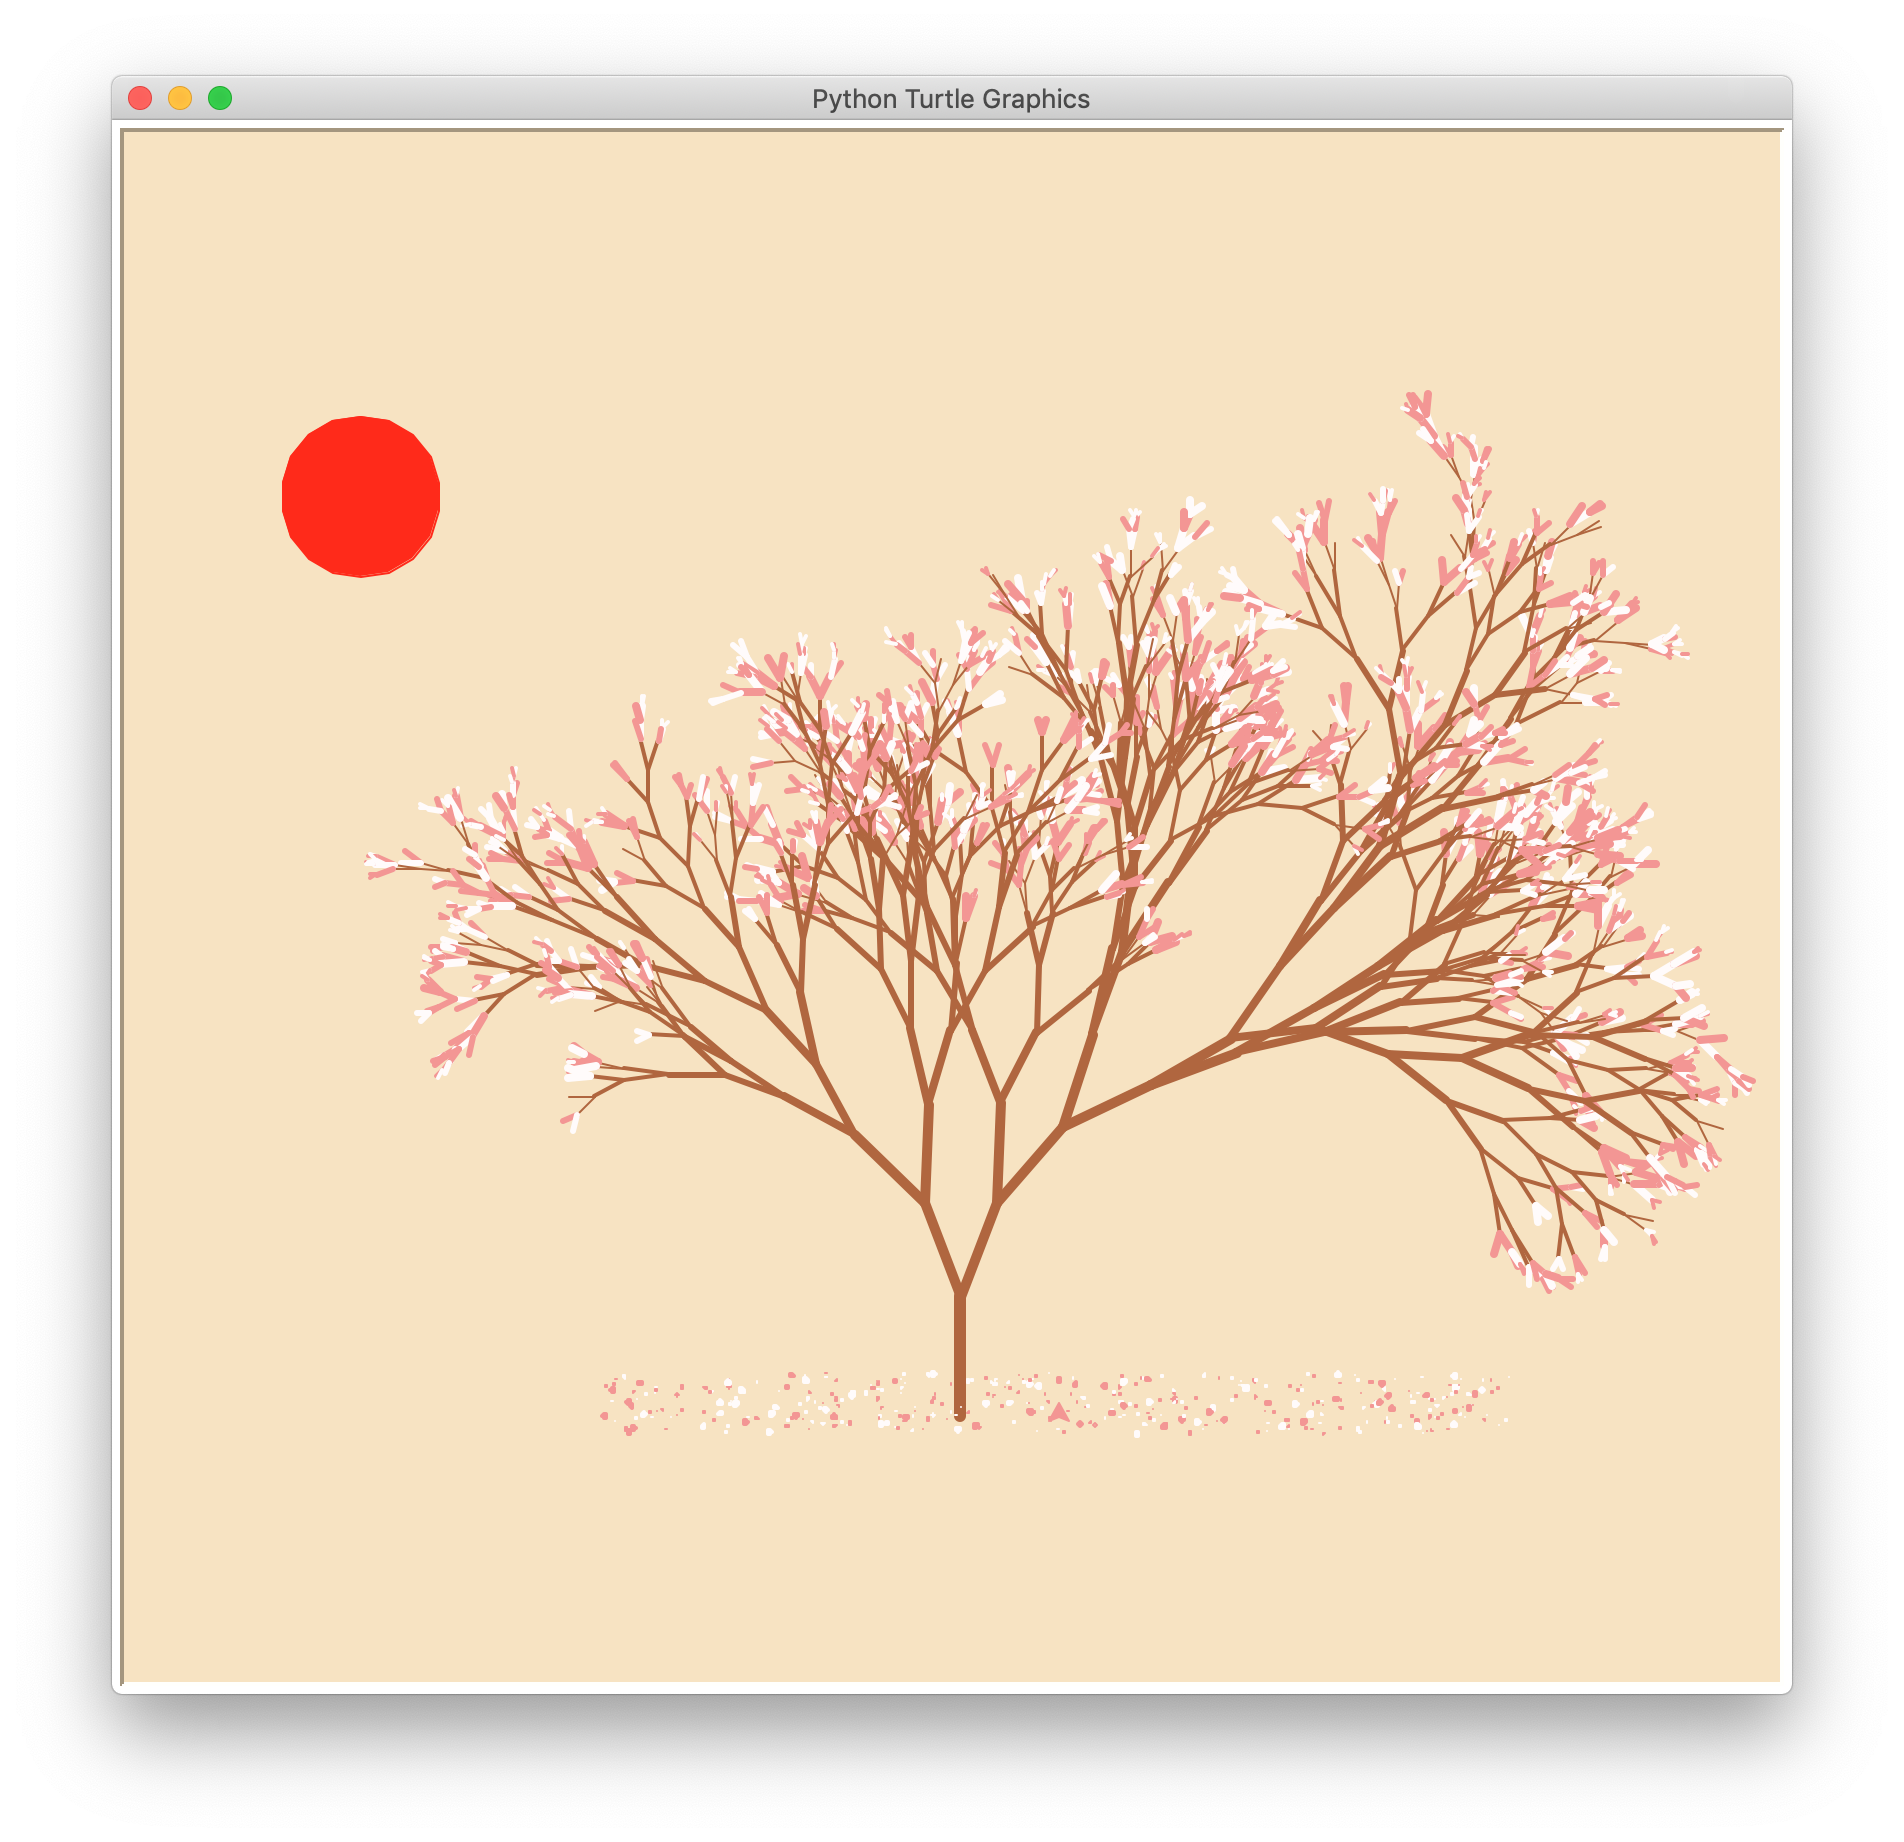
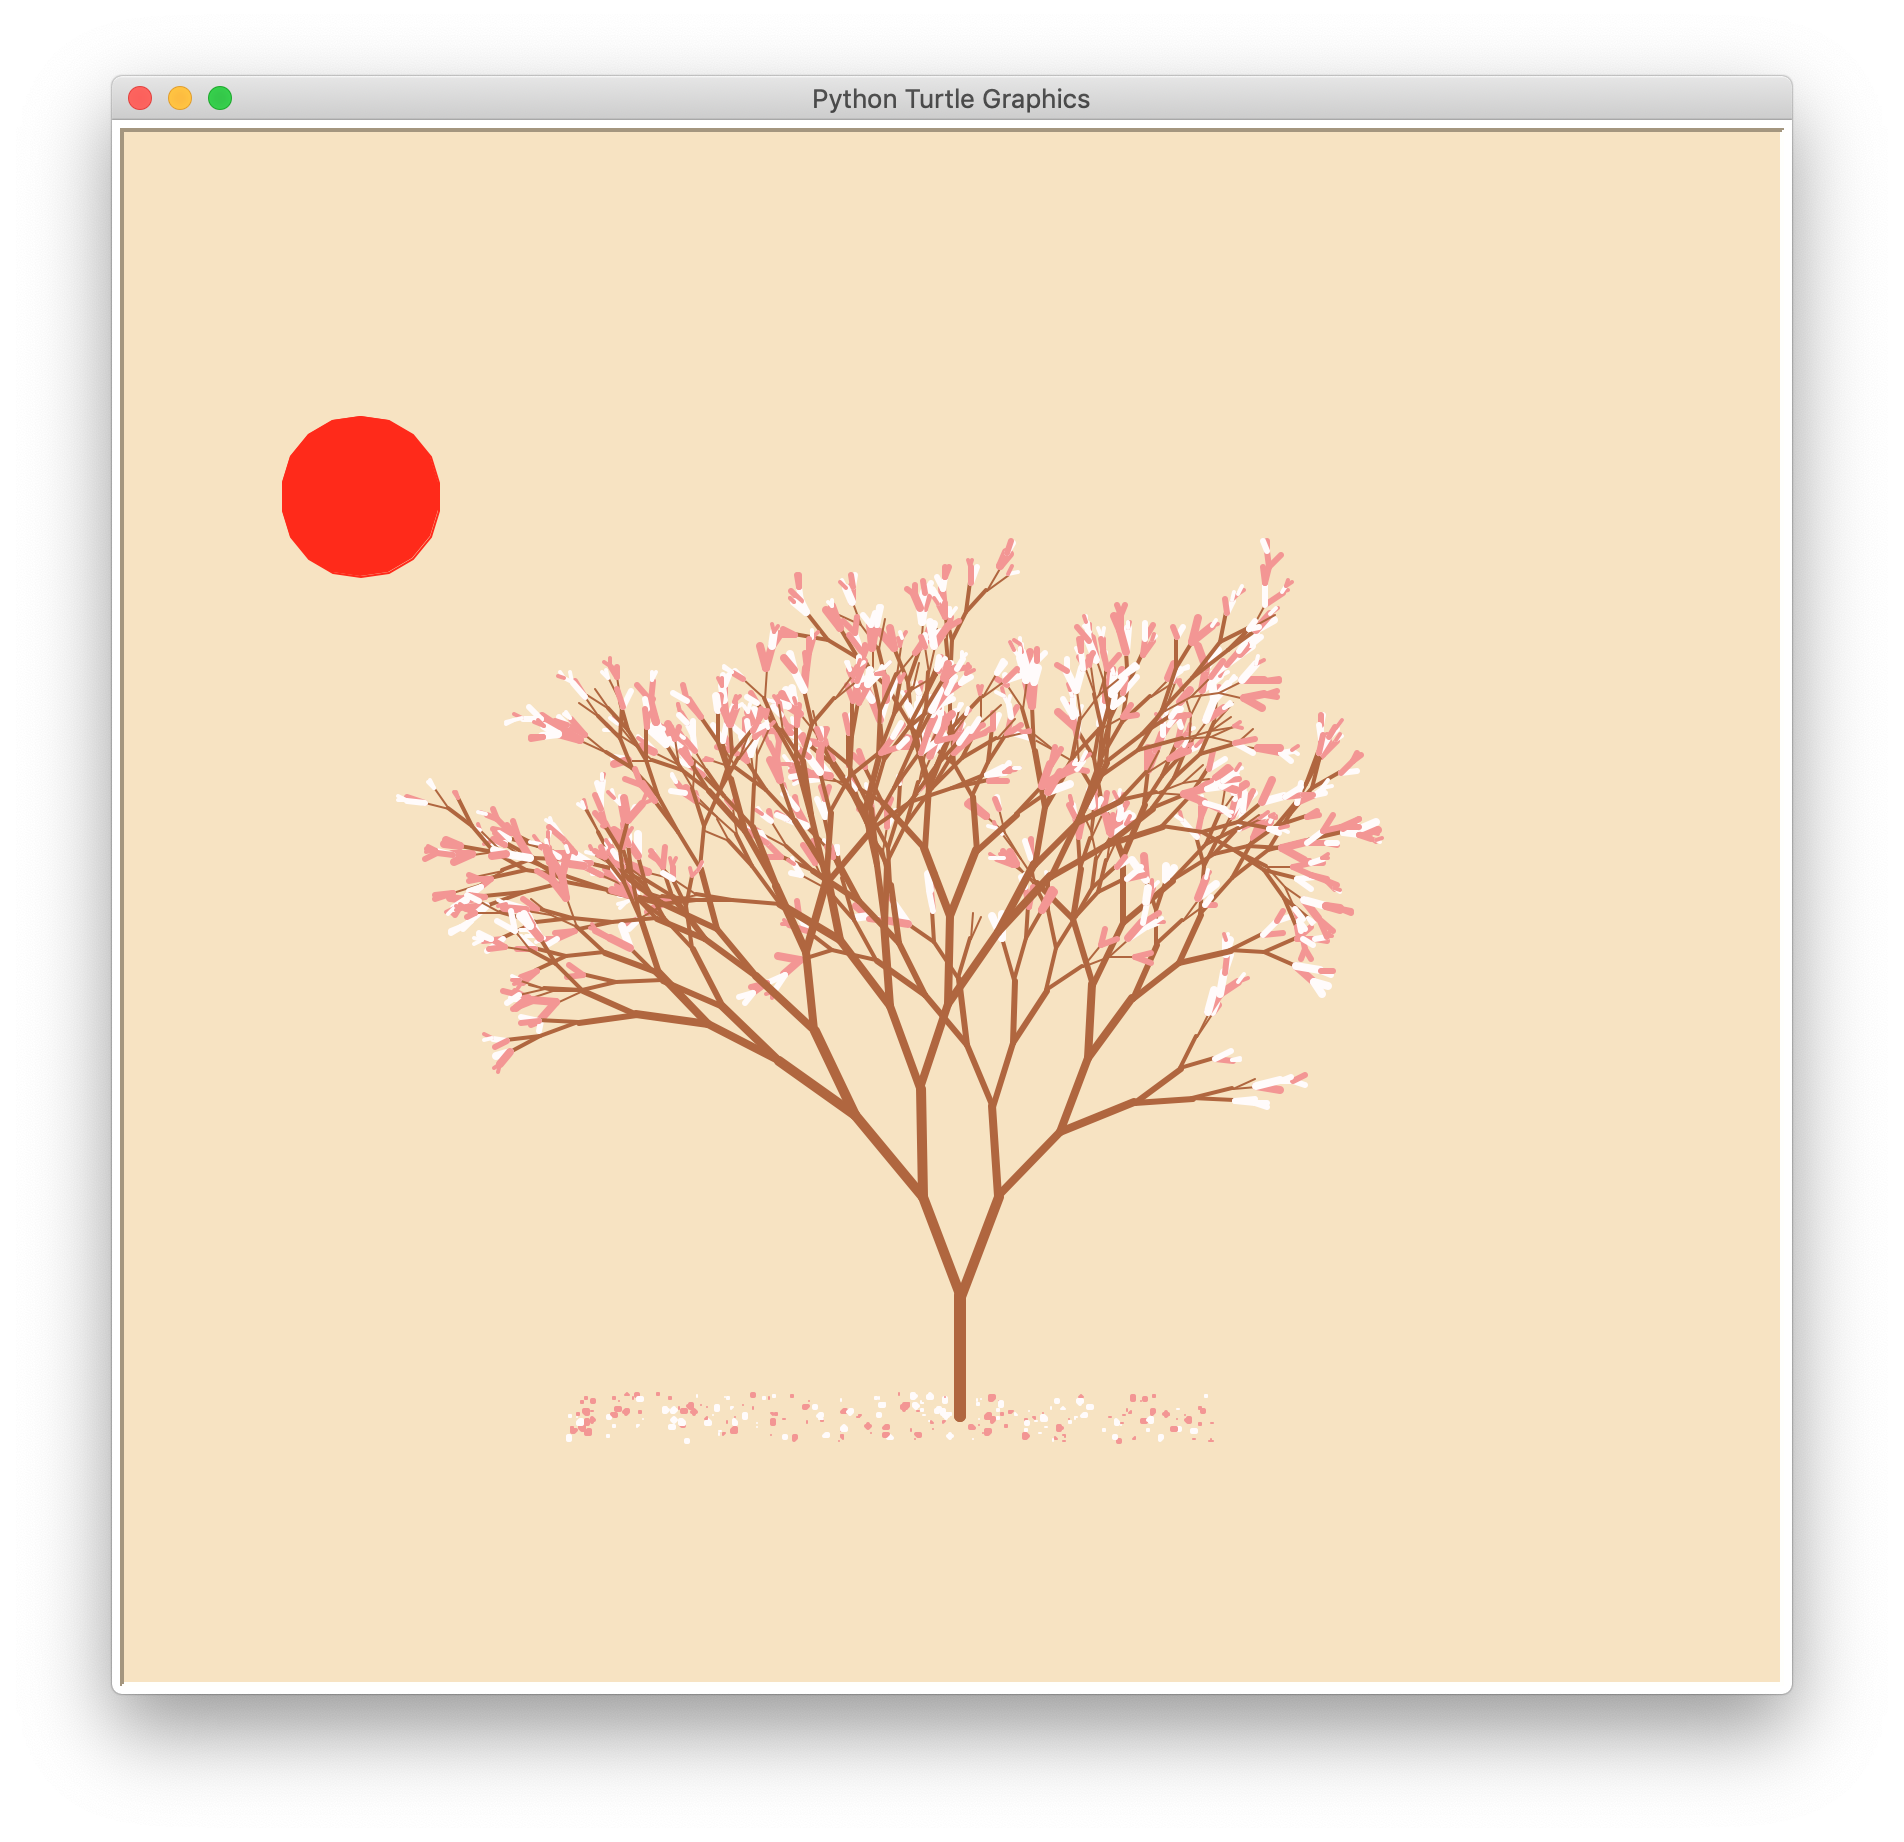
fix colors

diff --git a/FloweringTree.py b/FloweringTree.py
@@ -41,7 +41,9 @@ def tree(branch_len, _turtle):
             _turtle.pensize(branch_len / 10)
 
         # Draw the branch/leaf
+        _turtle.down()
         _turtle.forward(branch_len)
+        _turtle.up()
 
         random_angle = 3 + 2 * MAGIC * random.random()
         random_length = MAGIC * random.random()
@@ -55,23 +57,19 @@ def tree(branch_len, _turtle):
         # return to the root of this chile tree
         _turtle.up()
         _turtle.backward(branch_len)
-        _turtle.down()
 
 
 def petal_field(_turtle, count, left_border=-100, right_border=100):
     middle = (right_border + left_border) / 2
     width = (right_border - left_border) / 3
     depth = int(sqrt(width))
-    start_pos = _turtle.pos()
-    _turtle.up()
-    start_pos = [middle, start_pos[1] + depth / 2]
+    _start_pos = _turtle.pos()
+    start_pos = [middle, _start_pos[1] + depth / 2 - BRANCH_LENGTH / 10]
     _turtle.goto(start_pos)
-    _turtle.down()
 
     for _ in range(count):
         random_width = width - 2 * width * random.random()
         random_depth = depth - 2 * depth * random.random()
-        _turtle.up()
         _turtle.forward(random_depth)
         _turtle.left(90)
         _turtle.forward(random_width)
@@ -81,17 +79,22 @@ def petal_field(_turtle, count, left_border=-100, right_border=100):
         else:
             _turtle.color("lightcoral")
         rand_size = random.random()
-        _turtle.pensize(2 * rand_size)
+        _turtle.pensize(2.5 * rand_size)
         _turtle.circle(rand_size)
         _turtle.up()
         _turtle.right(90)
         _turtle.goto(start_pos)
-        _turtle.down()
+    # Repaint the covered branch
+    _turtle.goto(_start_pos)
+    _turtle.color('sienna')
+    _turtle.pensize(BRANCH_LENGTH / 10)
+    _turtle.down()
+    _turtle.forward(BRANCH_LENGTH)
+    _turtle.up()
 
 
 def the_sun(_turtle, radius=30):
     start_pos = _turtle.pos()
-    _turtle.up()
     _turtle.forward(500)
     _turtle.left(90)
     _turtle.forward(300)
@@ -104,7 +107,6 @@ def the_sun(_turtle, radius=30):
     _turtle.up()
     _turtle.right(90)
     _turtle.goto(start_pos)
-    _turtle.down()
 
 
 if __name__ == '__main__':
@@ -114,22 +116,22 @@ if __name__ == '__main__':
         if DEBUG:
             my_frame.tracer(0, 0)
         else:
-            my_frame.tracer(5, 0)
+            my_frame.tracer(3, 0)
         my_frame.screensize(bg='wheat')
-        my_turtle.left(90)
         my_turtle.up()
+        my_turtle.left(90)
         my_turtle.backward(250)
-        my_turtle.down()
-        my_turtle.color('sienna')
         the_sun(my_turtle, SUN_RADIUS)
-
         petal_count = 0
         petal_left_border = 0
         petal_right_border = 0
         tree(BRANCH_LENGTH, my_turtle)
         petal_count = petal_count / (int(sqrt(2 * MAGIC)))
         petal_field(my_turtle, petal_count, petal_left_border, petal_right_border)
-
+        my_turtle.backward(100)
+        my_turtle.color('wheat')
+        my_turtle.down()
+        my_turtle.forward(20)
         my_frame.exitonclick()
     except KeyboardInterrupt:
         print 'KeyboardInterrupt'
